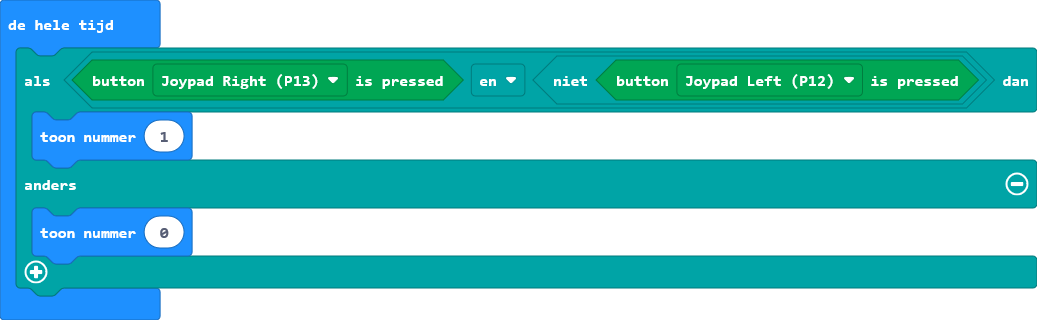
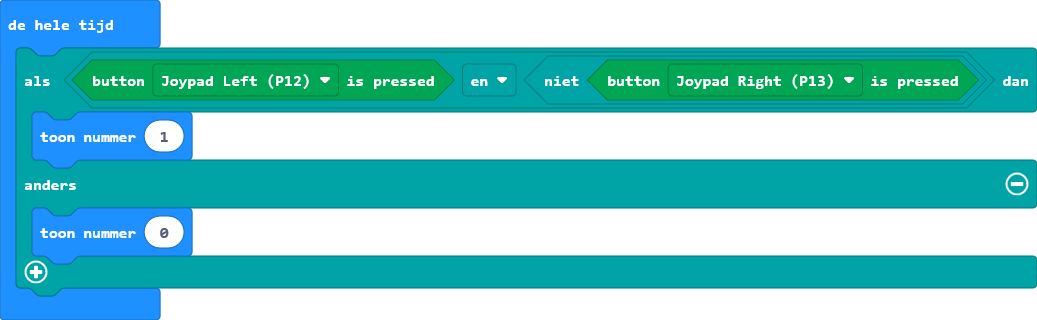
main.blocks, main.ts bijwerken

Changed region(s): [[0.216, 0.1875, 0.7406, 0.3125]]

diff --git a/main.ts b/main.ts
@@ -1,5 +1,5 @@
 basic.forever(function () {
-    if (Kitronik_Game_Controller.buttonIsPressed(Kitronik_Game_Controller.ControllerButtonPins.Right) && !(Kitronik_Game_Controller.buttonIsPressed(Kitronik_Game_Controller.ControllerButtonPins.Left))) {
+    if (Kitronik_Game_Controller.buttonIsPressed(Kitronik_Game_Controller.ControllerButtonPins.Left) && !(Kitronik_Game_Controller.buttonIsPressed(Kitronik_Game_Controller.ControllerButtonPins.Right))) {
         basic.showNumber(1)
     } else {
         basic.showNumber(0)
